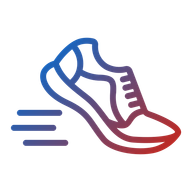
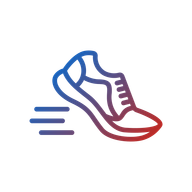
add more spacing

Changed region(s): [[0.0312, 0.1875, 0.9688, 0.8125]]

diff --git a/frontend/scripts/generate-icons.js b/frontend/scripts/generate-icons.js
@@ -21,6 +21,7 @@ const sizes = [
   { name: 'app-icon-maskable-192.png', size: 192 },
   { name: 'app-icon-maskable-512.png', size: 512 },
 ];
+const iconScale = 0.78;
 
 async function generateIcons() {
   try {
@@ -28,10 +29,24 @@ async function generateIcons() {
     
     for (const { name, size } of sizes) {
       const outputPath = resolve(publicDir, name);
-      await sharp(sourceIconBuffer)
-        .resize(size, size, {
-          fit: 'cover',
+      const innerSize = Math.round(size * iconScale);
+      const resizedIconBuffer = await sharp(sourceIconBuffer)
+        .resize(innerSize, innerSize, {
+          fit: 'contain',
+          background: { r: 0, g: 0, b: 0, alpha: 0 },
         })
+        .png()
+        .toBuffer();
+
+      await sharp({
+        create: {
+          width: size,
+          height: size,
+          channels: 4,
+          background: { r: 0, g: 0, b: 0, alpha: 0 },
+        },
+      })
+        .composite([{ input: resizedIconBuffer, gravity: 'center' }])
         .png()
         .toFile(outputPath);
       
